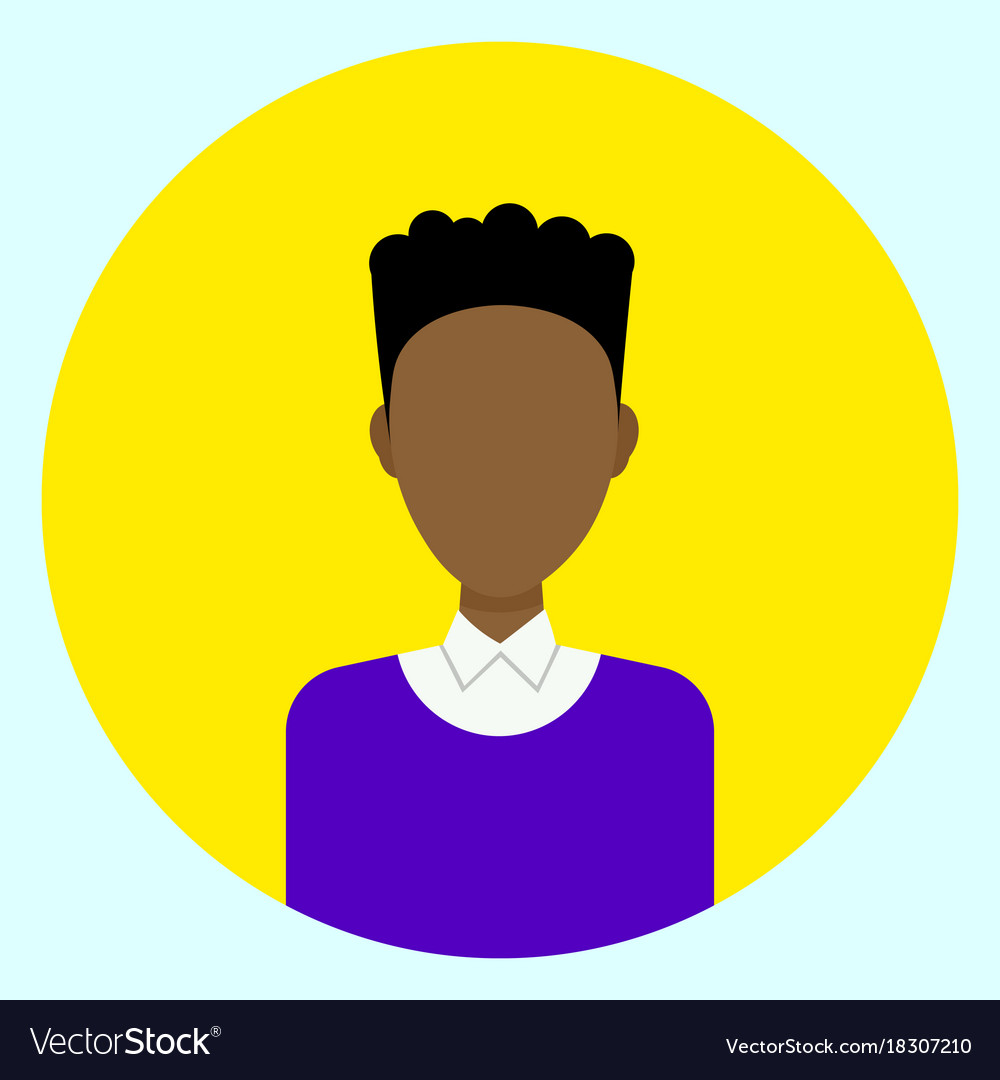
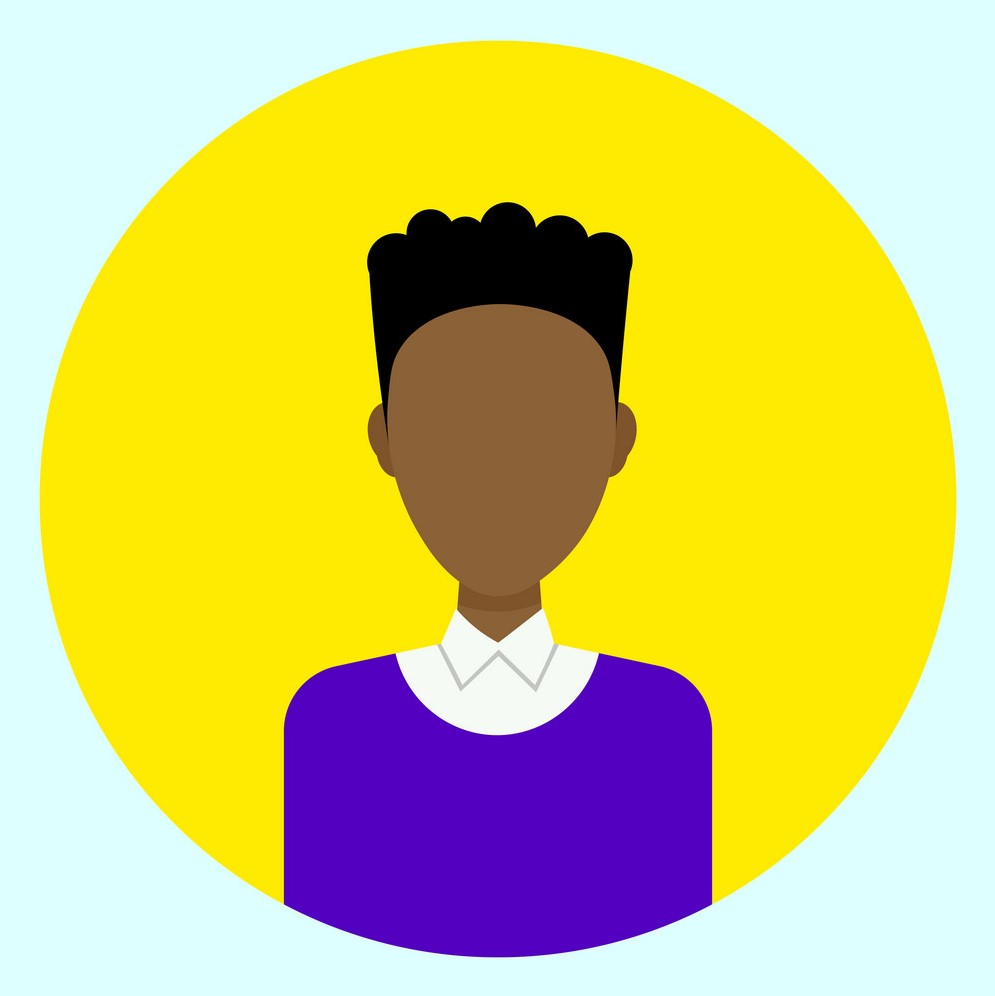
Added initial CSS containers for team section

diff --git a/index.html b/index.html
@@ -52,19 +52,19 @@
                     <h1 class="team-heading">Our Team</h1>
                     <div class="team-profiles">
                         <div class="team-profile">
-                            <img src="#" class="team-img">
+                            <img src="img/team1.jpg" class="team-img">
                             <h3 class="team-name">Jane Doe</h3>
                             <h5>Job Title</h5>
                             <p>Lorem ipsum dolor sit amet, consectetur adipiscing elit, sed do eiusmod tempor incididunt ut labore et dolore magna aliqua.</p>
                         </div>
                         <div class="team-profile">
-                            <img src="#" class="team-img">
+                            <img src="img/team2.jpg" class="team-img">
                             <h3 class="team-name">Joe Dane</h3>
                             <h5>Job Title</h5>
                             <p>Lorem ipsum dolor sit amet, consectetur adipiscing elit, sed do eiusmod tempor incididunt ut labore et dolore magna aliqua.</p>
                         </div>
                         <div class="team-profile">
-                            <img src="#" class="team-img">
+                            <img src="img/team3.jpg" class="team-img">
                             <h3 class="team-name">Eden Jao</h3>
                             <h5>Job Title</h5>
                             <p>Lorem ipsum dolor sit amet, consectetur adipiscing elit, sed do eiusmod tempor incididunt ut labore et dolore magna aliqua.</p>

diff --git a/styles/main.css b/styles/main.css
@@ -83,7 +83,7 @@ section p {
     font-size: 1.5rem;
 }
 
-/* ------------------- CAROUSEL ------------------- */
+/* ------------------- EVENT SECTION: CAROUSEL ------------------- */
 .carousel-container {
     width: 80%;
     /* centers the container */
@@ -174,3 +174,33 @@ section p {
   .controls ul li.selected {
     background: #FFC759;
   }
+
+/* ------------------- SECTION: TEAM ------------------- */
+
+.team-container {
+    margin: 20px 40px;
+    color: white;
+}
+
+.team-name {
+    font-size: 60px;
+    color: white;
+}
+
+.team-profiles {
+    /* appear in a row */
+    display: flex;
+    justify-content: space-around;
+    margin: 20px 80px;
+}
+
+.team-profile {
+    /* set initial size */
+    flex-basis: 260px;
+}
+
+.team-img {
+    height: 260px;
+    width: 260px;
+
+}
